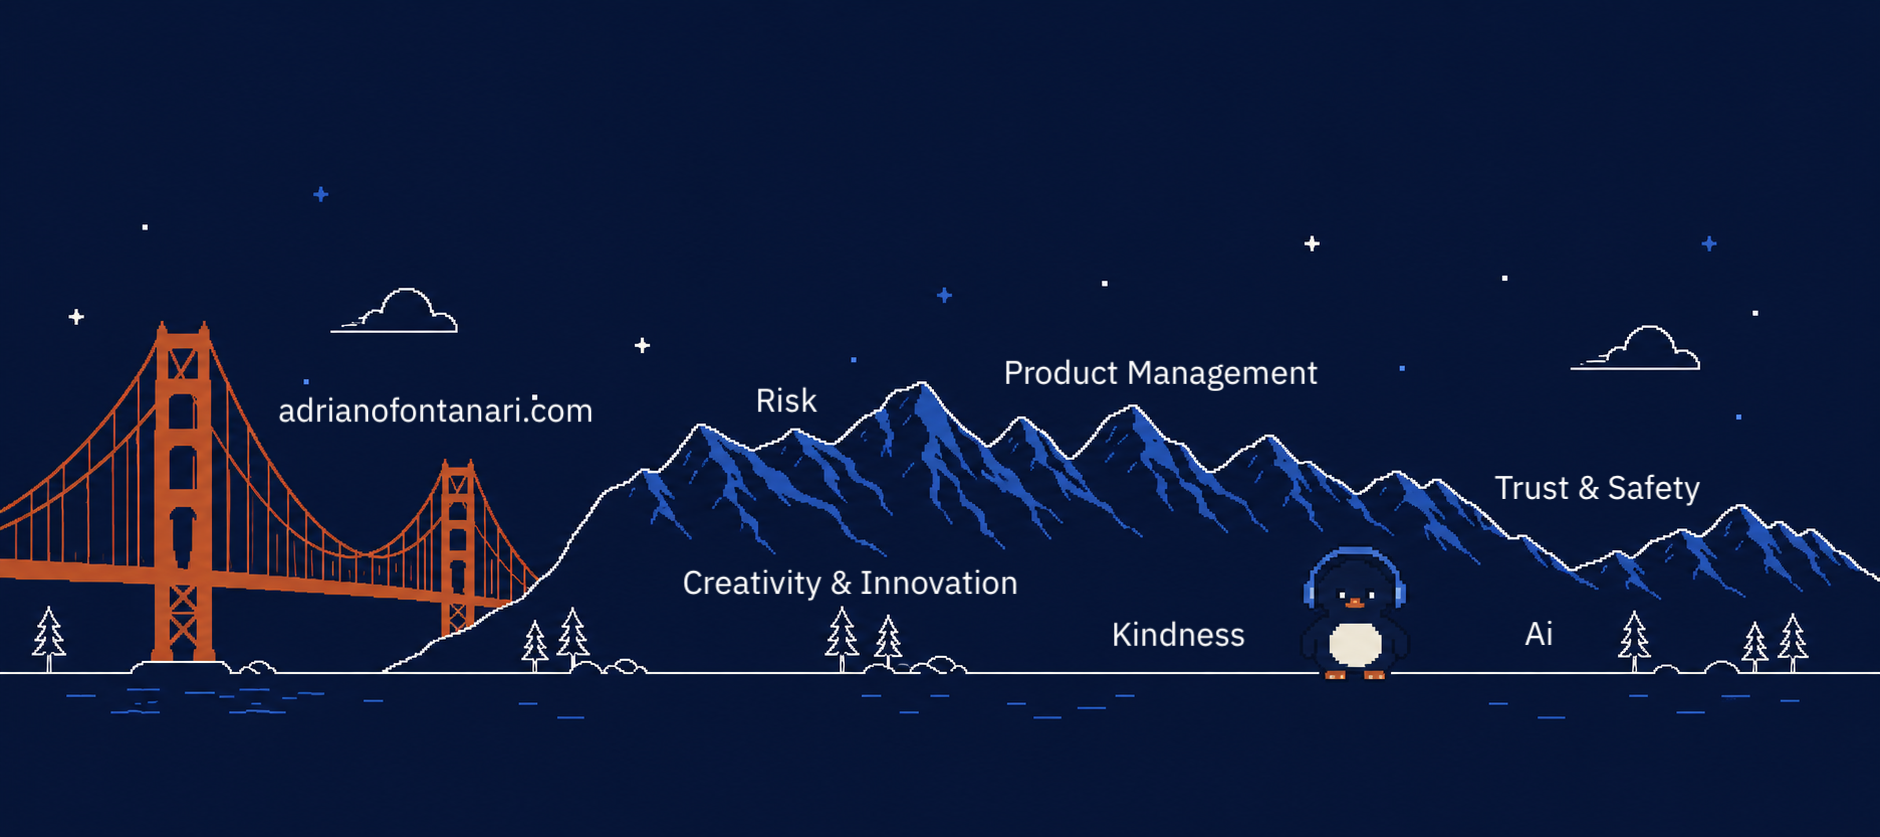
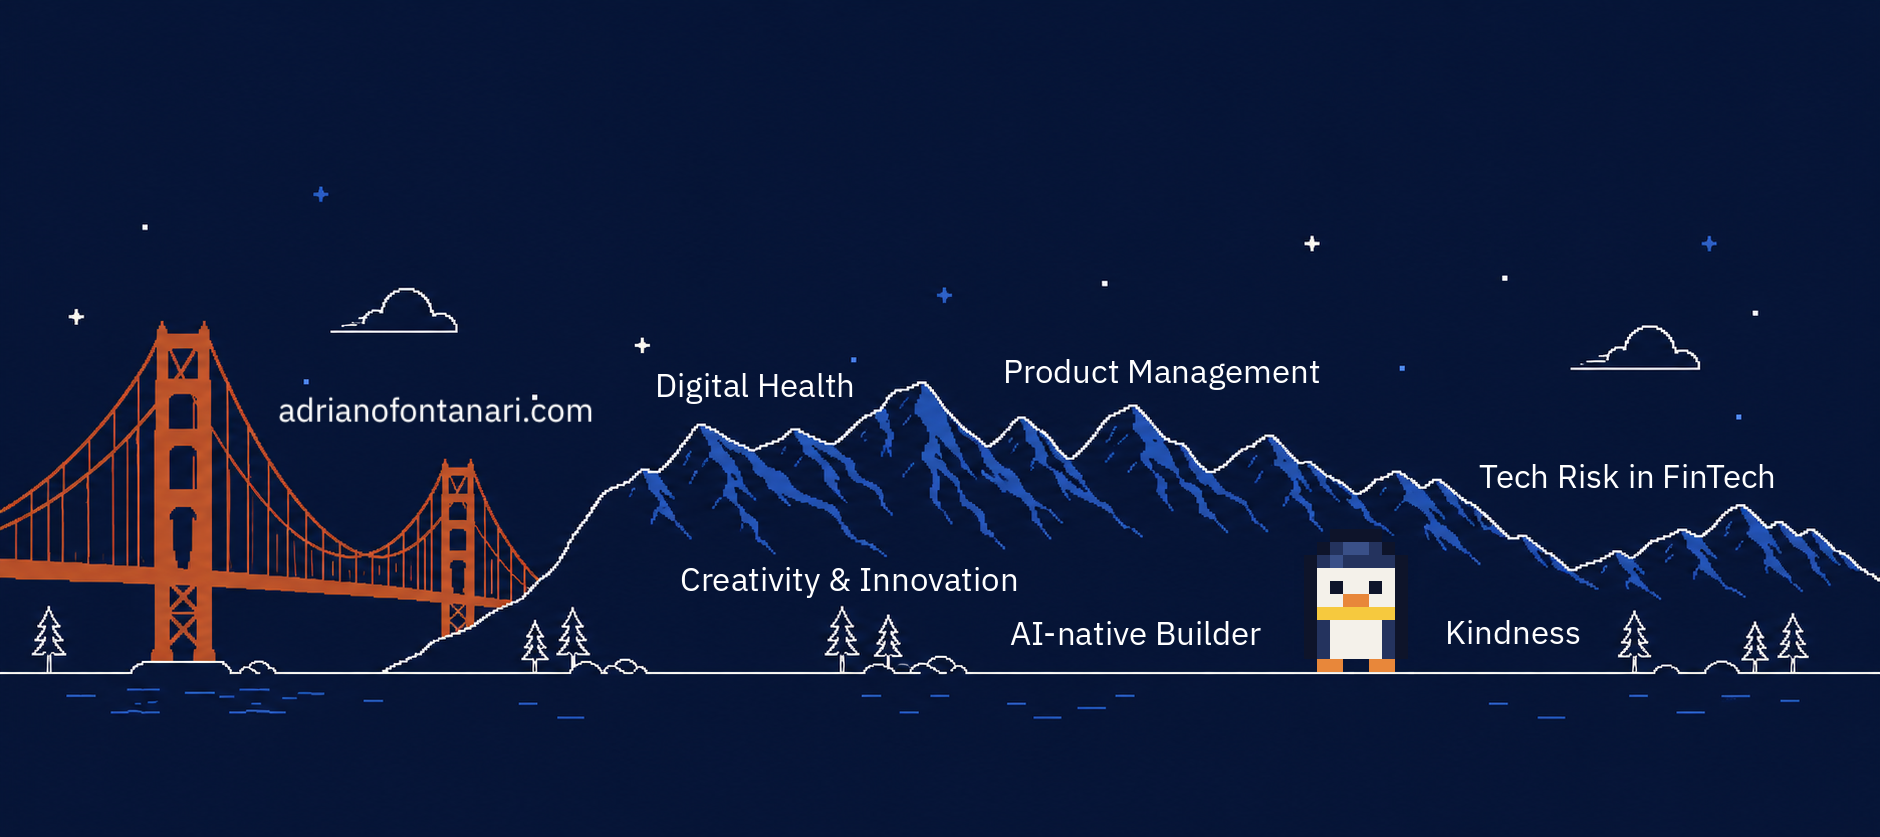
docs: cover with Pingu and new keywords

diff --git a/README.md b/README.md
@@ -1,5 +1,5 @@
 <p align="center">
-  <img src="assets/adriano_fontanari_cover_2026.png" alt="Night skyline with the Golden Gate bridge and Alpine mountains, a penguin wearing headphones, and the words Risk, Product Management, Trust &amp; Safety, Creativity &amp; Innovation, Kindness, AI." width="100%">
+  <img src="assets/adriano_fontanari_cover_2026.png" alt="Night skyline with the Golden Gate bridge and Alpine mountains, Pingu the pixel penguin, and the words Product Management, AI-native Builder, Digital Health, Tech Risk in FinTech, Kindness, Creativity &amp; Innovation." width="100%">
 </p>
 
 # Hi, I'm Adriano 👋
